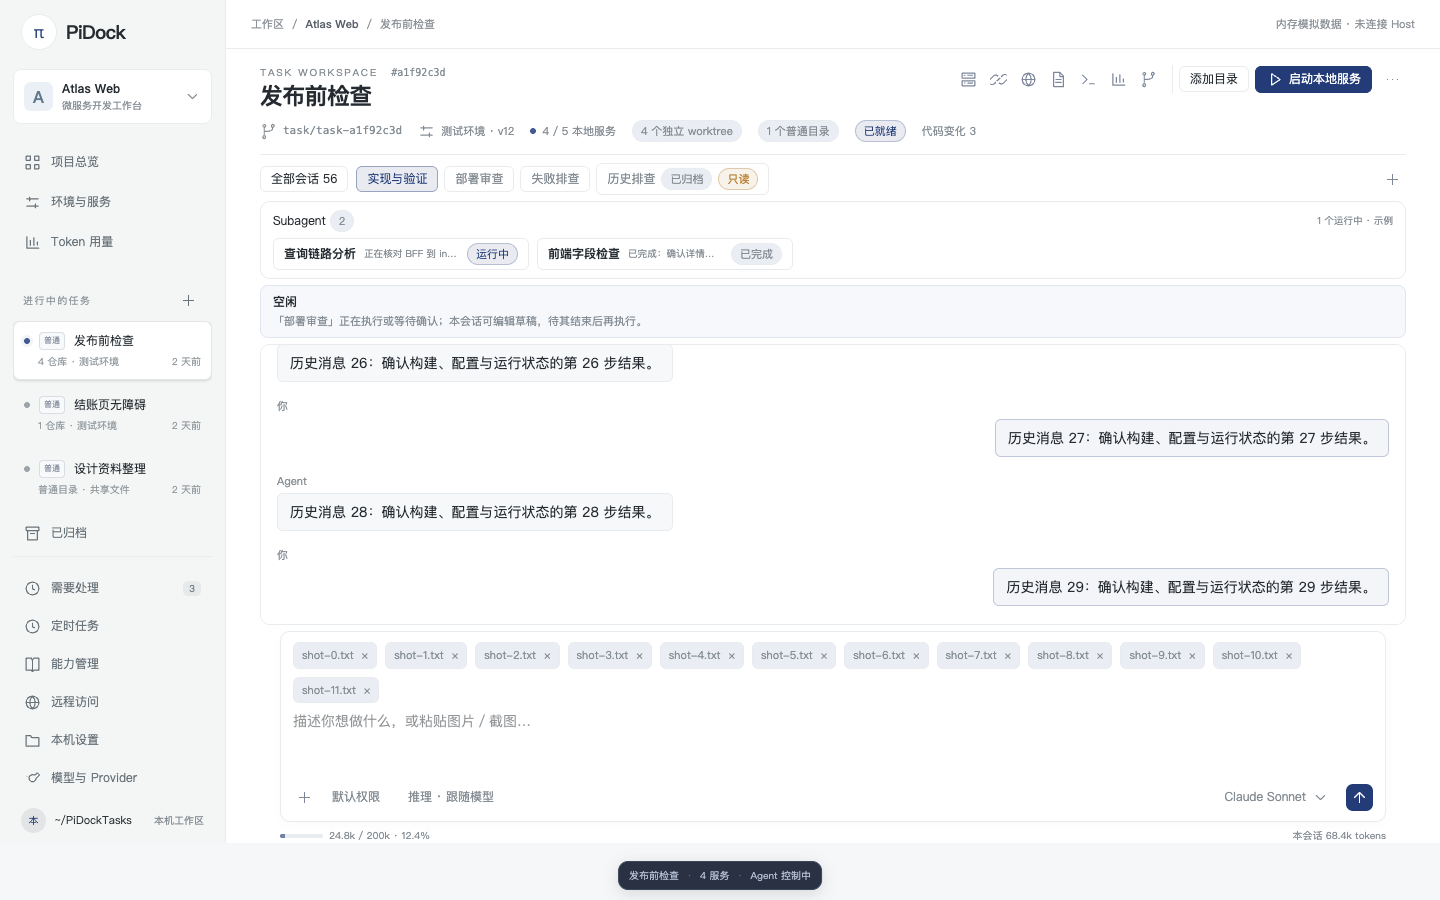
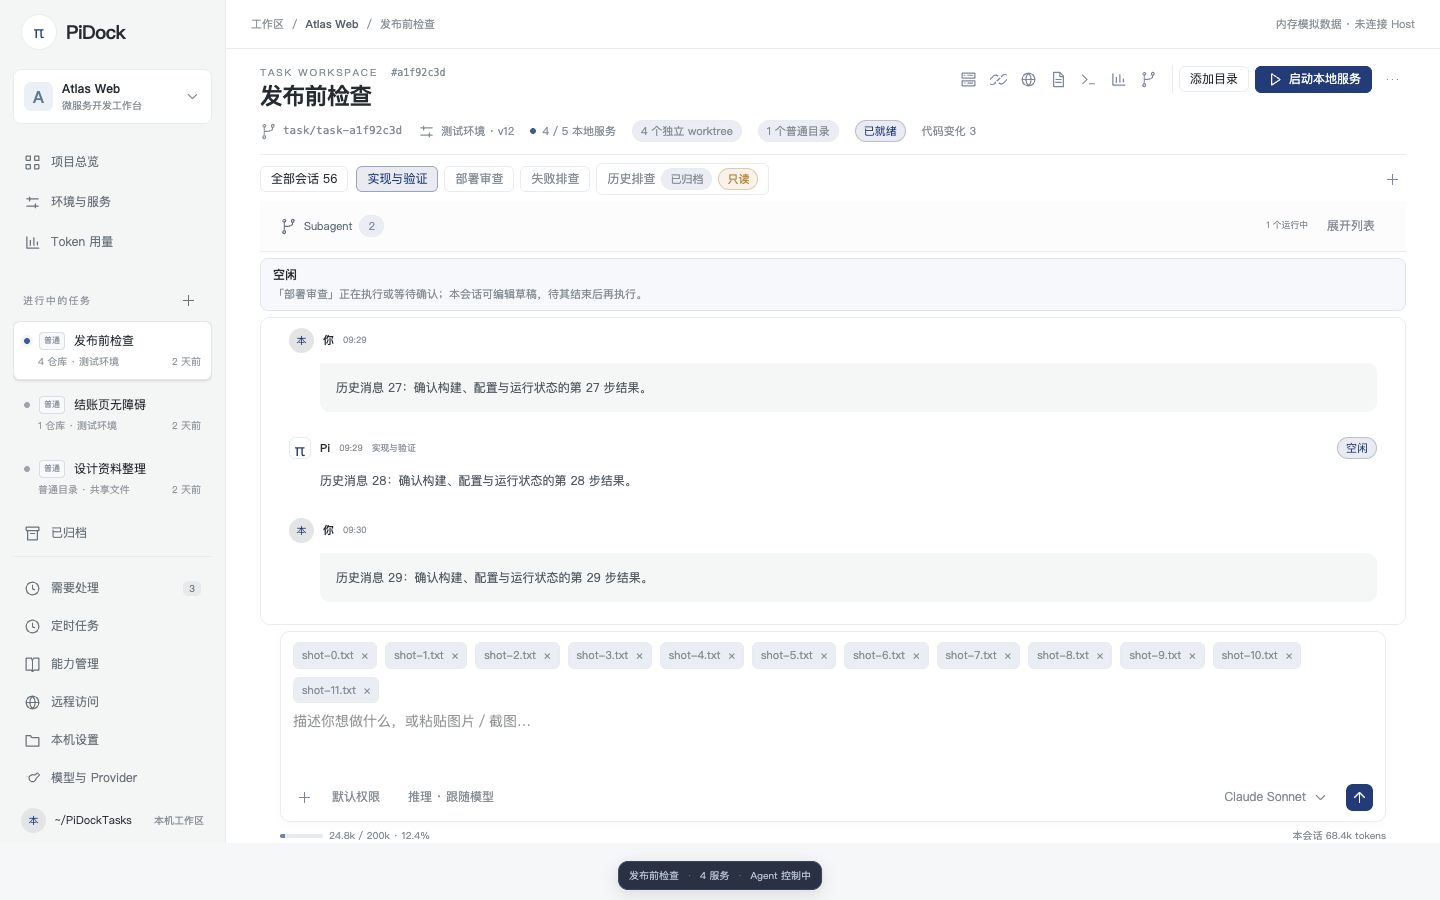
test(evidence): re-measure the composer after the conversation rewrite (#31)

diff --git a/docs/evidence/ui-alignment-s4/verification-log.md b/docs/evidence/ui-alignment-s4/verification-log.md
@@ -186,3 +186,20 @@ node docs/evidence/ui-alignment-s3/capture-execution.mjs
 本轮门禁：`pnpm --filter @pidock/renderer test` **52 文件 / 445 例全绿**、
 `pnpm turbo run typecheck test build lint --force` **8/8 成功**；
 两个证据脚本重跑均通过（s3 **42** 个测量态、s4 **22** 个测量态）。
+
+## 7. [UI 对齐 07] (#31) 之后的复测（同一脚本，同一档位）
+
+#31 重写消息区并把子代理条从常驻 78px 改为「一行 + 展开列表」，输入区结构未动。脚本重跑以确认
+**输入区无回退**，并如实记录消息区的新数值：
+
+| 档位 | #30 之后 `composerH` | #31 之后 `composerH` | 消息区 `messagesH`（#30 → #31） |
+| --- | --- | --- | --- |
+| 1440×900 | 143 | **143** | 350 → **377**（子代理条 78 → 51px） |
+| 1280×900 | 143 | **143** | 350 → **377** |
+| 1024×800 | 143 | **143** | 254 → **281** |
+| 900×800 | 143 | **143** | 254 → **283** |
+| 720×760（堆叠档） | 143 | **143** | 2473 → 3133（堆叠布局，滚动高度，无固定视口约束） |
+| `card-approval` / `card-failed` / `card-failed-readonly` | 143 / 174 / 174 | **143 / 174 / 174** | 346 / 315 / 315 不变 |
+
+`node docs/evidence/ui-alignment-s4/capture-composer.mjs` → `geometry assertions: ok (22 measured states)`；
+#29 的 340px 下限在 `card-approval`（346px）仍达标。
